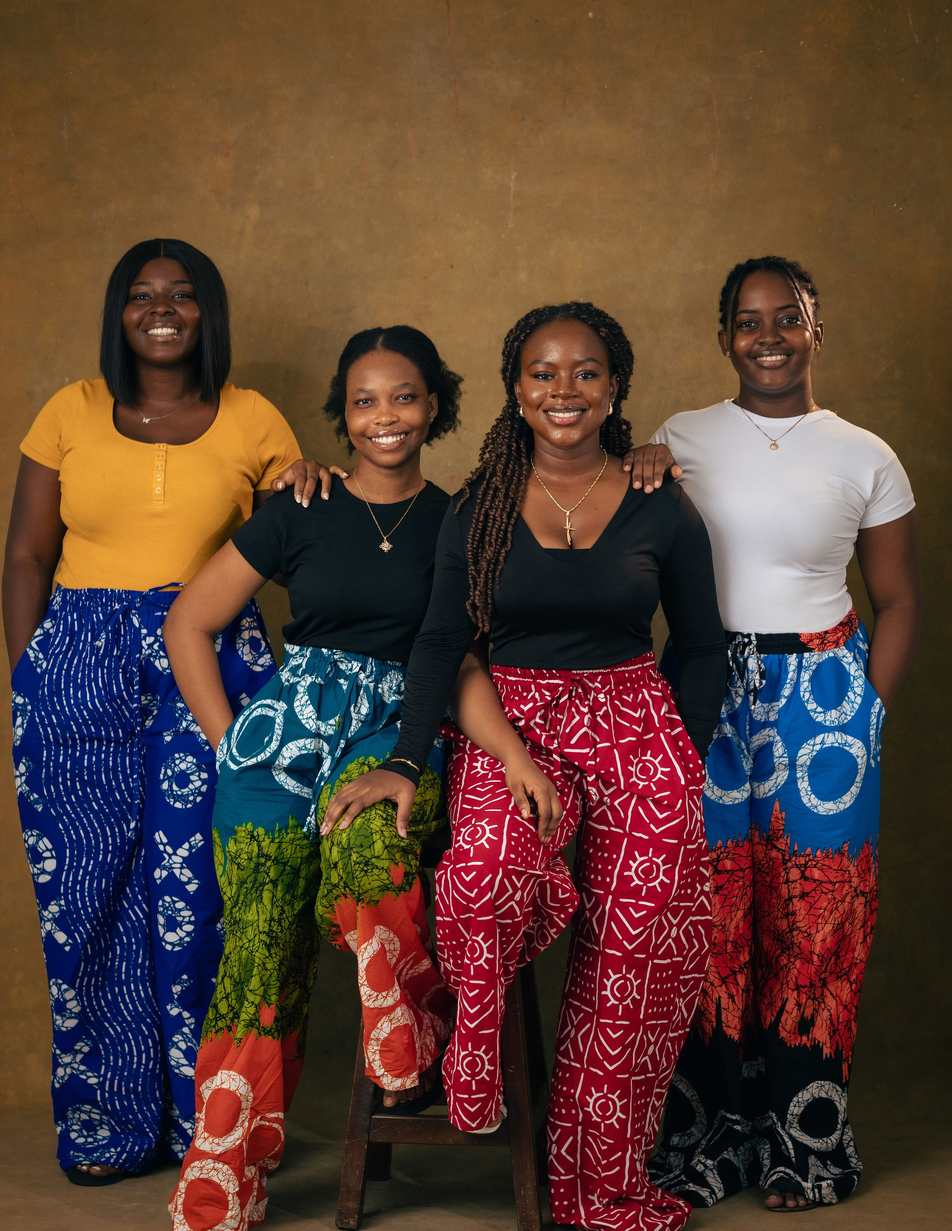
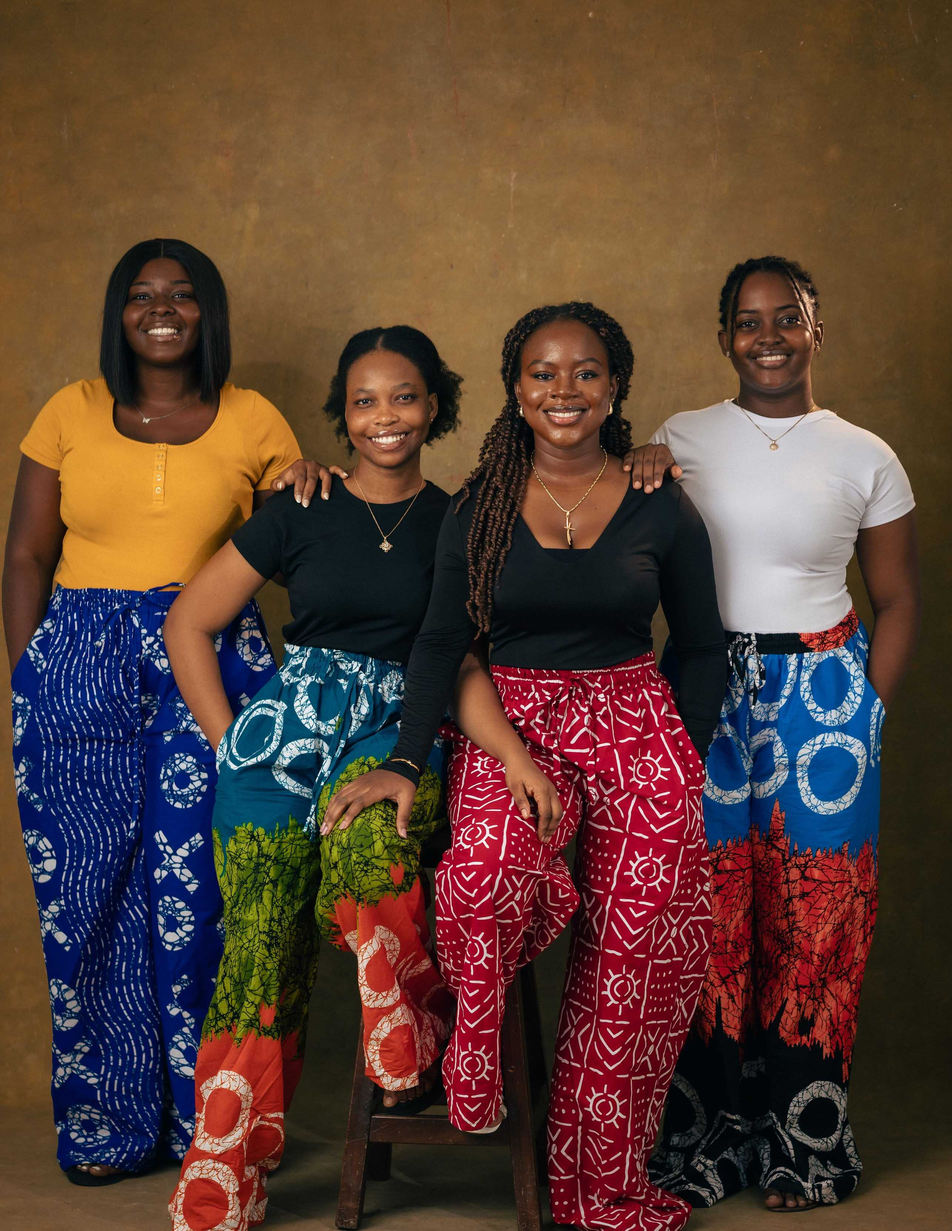
Update font paths in globals.css and layout.tsx for consistency and correct loading

Changed region(s): [[0.2489, 0.7432, 0.28, 0.7742]]

diff --git a/app/globals.css b/app/globals.css
@@ -1,10 +1,6 @@
 @import "tailwindcss";
 
 @font-face {
-  font-family: PPEditorial;
-  src: url('/fonts/ppeditorialold-ultralightitalic.otf') format('opentype');
-}
-@font-face {
   font-family: PPEditorialNormal;
   src: url('/fonts/PPEditorialNew-Light.ttf') format('truetype');
 }
@@ -14,7 +10,7 @@
 }
 
 body {
-  font-family: 'PPEditorial', sans-serif;
+  font-family: var(--font-local), sans-serif;
 }
 
 .sub{

diff --git a/app/layout.tsx b/app/layout.tsx
@@ -7,7 +7,7 @@ import localFont from 'next/font/local';
 
 export const myLocalFont = localFont({
   
-  src: '../ppeditorialold-ultralight.woff2',
+  src: '/ppeditorialold-ultralightitalic.woff2',
   variable: '--font-local',
   display: 'swap',
 });
